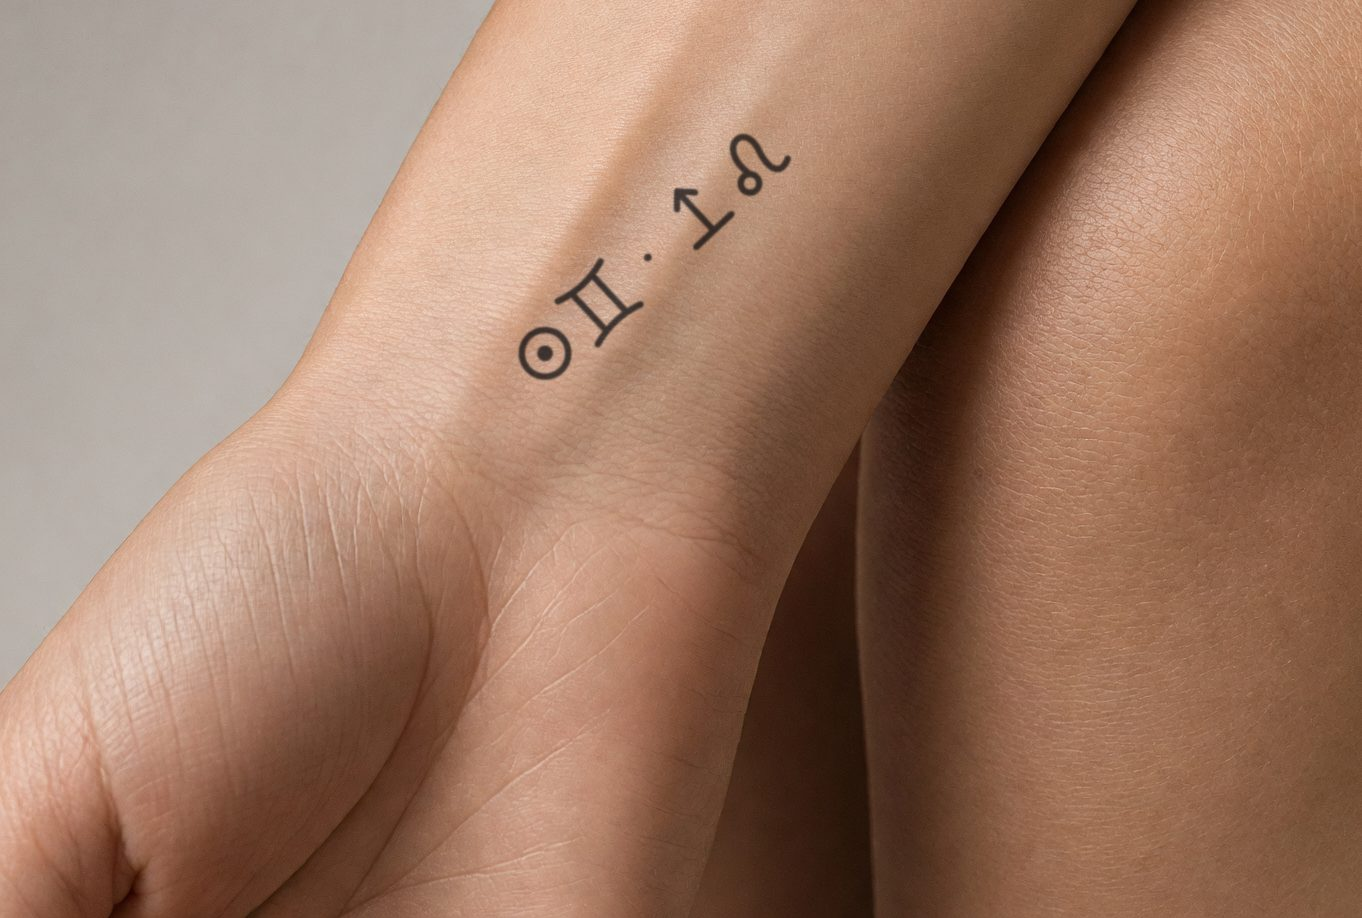
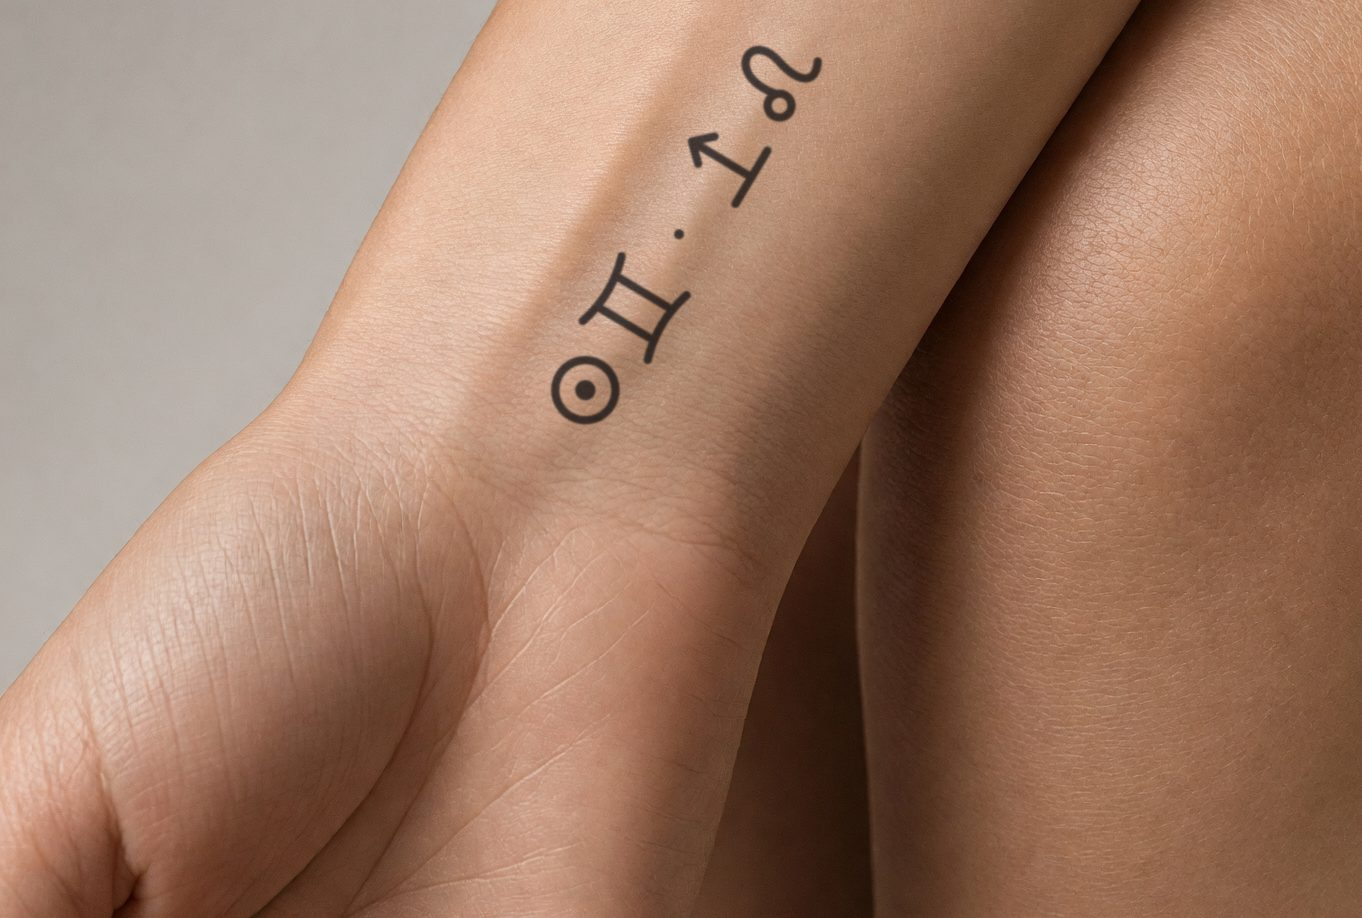
Forearm line on the arm's axis and larger, calf wheel at half size, versioned media URLs

diff --git a/index.html b/index.html
@@ -685,7 +685,7 @@
     <span class="label" data-t="ex.label">The tattoo flash</span>
     <h3 id="exTitle" data-t="ex.h">Your readings, worn</h3>
     <div class="ex-grid" id="exGrid">
-      <figure class="ex-sheet"><img src="media/examples/flash-sheet-example.jpg" alt="An example STAROT tattoo flash sheet with five designs" data-ta="ex.alt" loading="lazy">
+      <figure class="ex-sheet"><img src="media/examples/flash-sheet-example.jpg?v=7" alt="An example STAROT tattoo flash sheet with five designs" data-ta="ex.alt" loading="lazy">
         <figcaption data-t="ex.sheet">An example flash sheet: five designs from one birth chart and one name, ready to print.</figcaption></figure>
       <div class="ex-photos" id="exPhotos"></div>
     </div>
@@ -697,6 +697,8 @@
 
 <script>
 /* ═══ CONFIG — the only lines you need to edit (see docs/LAUNCH.md) ═══ */
+const MEDIA_V="7";   /* bump when a gallery or example image changes, so browsers fetch the new one */
+const mv=u=>u+(u.includes("?")?"&":"?")+"v="+MEDIA_V;
 const CONFIG={
   payApi:"",        // your payment worker, e.g. "https://starot-pay.yourname.workers.dev" — empty = tattoo files download free
   price:"€7",       // the tattoo flash — shown on the page; the amount charged lives in the worker (PRICE_CENTS)
@@ -1470,7 +1472,7 @@ if(PT){
   document.querySelectorAll('[data-t]').forEach(el=>{const v=UI_PT[el.dataset.t];if(v!=null)el.innerHTML=v;});
   document.querySelectorAll('[data-tp]').forEach(el=>{const v=UI_PT[el.dataset.tp];if(v!=null)el.placeholder=v;});
   document.querySelectorAll('[data-ta]').forEach(el=>{const v=UI_PT[el.dataset.ta];if(v!=null)el.alt=v;});
-  const exImg=document.querySelector('.ex-sheet img');if(exImg)exImg.src='media/examples/flash-sheet-example-pt.jpg';
+  const exImg=document.querySelector('.ex-sheet img');if(exImg)exImg.src=mv('media/examples/flash-sheet-example-pt.jpg');
 }
 /* the other language, one tap away; a map link keeps its map */
 document.querySelectorAll('.lang').forEach(b=>{
@@ -2656,8 +2658,8 @@ const exEl=$('examples');
 function figHTML(it){
   const cap=(PT?it.captionPt:it.caption)||'',alt=(PT?it.altPt:it.alt)||cap;
   return `<figure class="${it.wide?'wide':''}">`+(it.video
-    ?`<video src="${it.video}" ${it.poster?`poster="${it.poster}"`:''} muted loop playsinline autoplay preload="metadata"></video>`
-    :`<img src="${it.src}" alt="${alt}" loading="lazy">`)+(cap?`<figcaption>${cap}</figcaption>`:'')+`</figure>`;
+    ?`<video src="${mv(it.video)}" ${it.poster?`poster="${mv(it.poster)}"`:''} muted loop playsinline autoplay preload="metadata"></video>`
+    :`<img src="${mv(it.src)}" alt="${alt}" loading="lazy">`)+(cap?`<figcaption>${cap}</figcaption>`:'')+`</figure>`;
 }
 function openExamples(){
   const items=CONFIG.gallery||[];
@@ -2687,8 +2689,8 @@ addEventListener('keydown',e=>{if(e.key==='Escape')exEl.classList.remove('show')
       `<div class="g-row">`+items.map(it=>{
       const cap=(PT?it.captionPt:it.caption)||'';
       return it.video
-        ?`<figure><video src="${it.video}" ${it.poster?`poster="${it.poster}"`:''} muted loop playsinline autoplay preload="metadata"></video>${cap?`<figcaption>${cap}</figcaption>`:''}</figure>`
-        :`<figure><img src="${it.src}" alt="${(PT?it.altPt:it.alt)||cap}" loading="lazy">${cap?`<figcaption>${cap}</figcaption>`:''}</figure>`;
+        ?`<figure><video src="${mv(it.video)}" ${it.poster?`poster="${mv(it.poster)}"`:''} muted loop playsinline autoplay preload="metadata"></video>${cap?`<figcaption>${cap}</figcaption>`:''}</figure>`
+        :`<figure><img src="${mv(it.src)}" alt="${(PT?it.altPt:it.alt)||cap}" loading="lazy">${cap?`<figcaption>${cap}</figcaption>`:''}</figure>`;
     }).join('')+`</div>`;
   });
 })();

diff --git a/tools/higgsfield/composite-wheel-forearm.py b/tools/higgsfield/composite-wheel-forearm.py
@@ -17,9 +17,9 @@ DES = ROOT / "media/designs"
 # curve of the limb, rotation in degrees (counter-clockwise)
 JOBS = [
     ("calf-plate-man-clean.png", None, "design-1-natal-wheel.png", "wheel-calf-composite-man.png",
-     (918, 1040), 560, .93, -2),
-    ("wheel-forearm-woman-v1.png", (0, 1450, 1362, 2368), "design-4-sun-and-rising-gemini-leo.png",
-     "line-forearm-composite-woman.png", (650, 1705), 340, 1, 43),
+     (918, 1010), 280, .95, -2),
+    ("wheel-forearm-woman-v1.png", (0, 1445, 1362, 2363), "design-4-sun-and-rising-gemini-leo.png",
+     "line-forearm-composite-woman.png", (681, 1676), 440, 1, 59),   # the forearm's axis, measured edge to edge
 ]
 INK = (26, 28, 34)
 STRENGTH = 1.6
